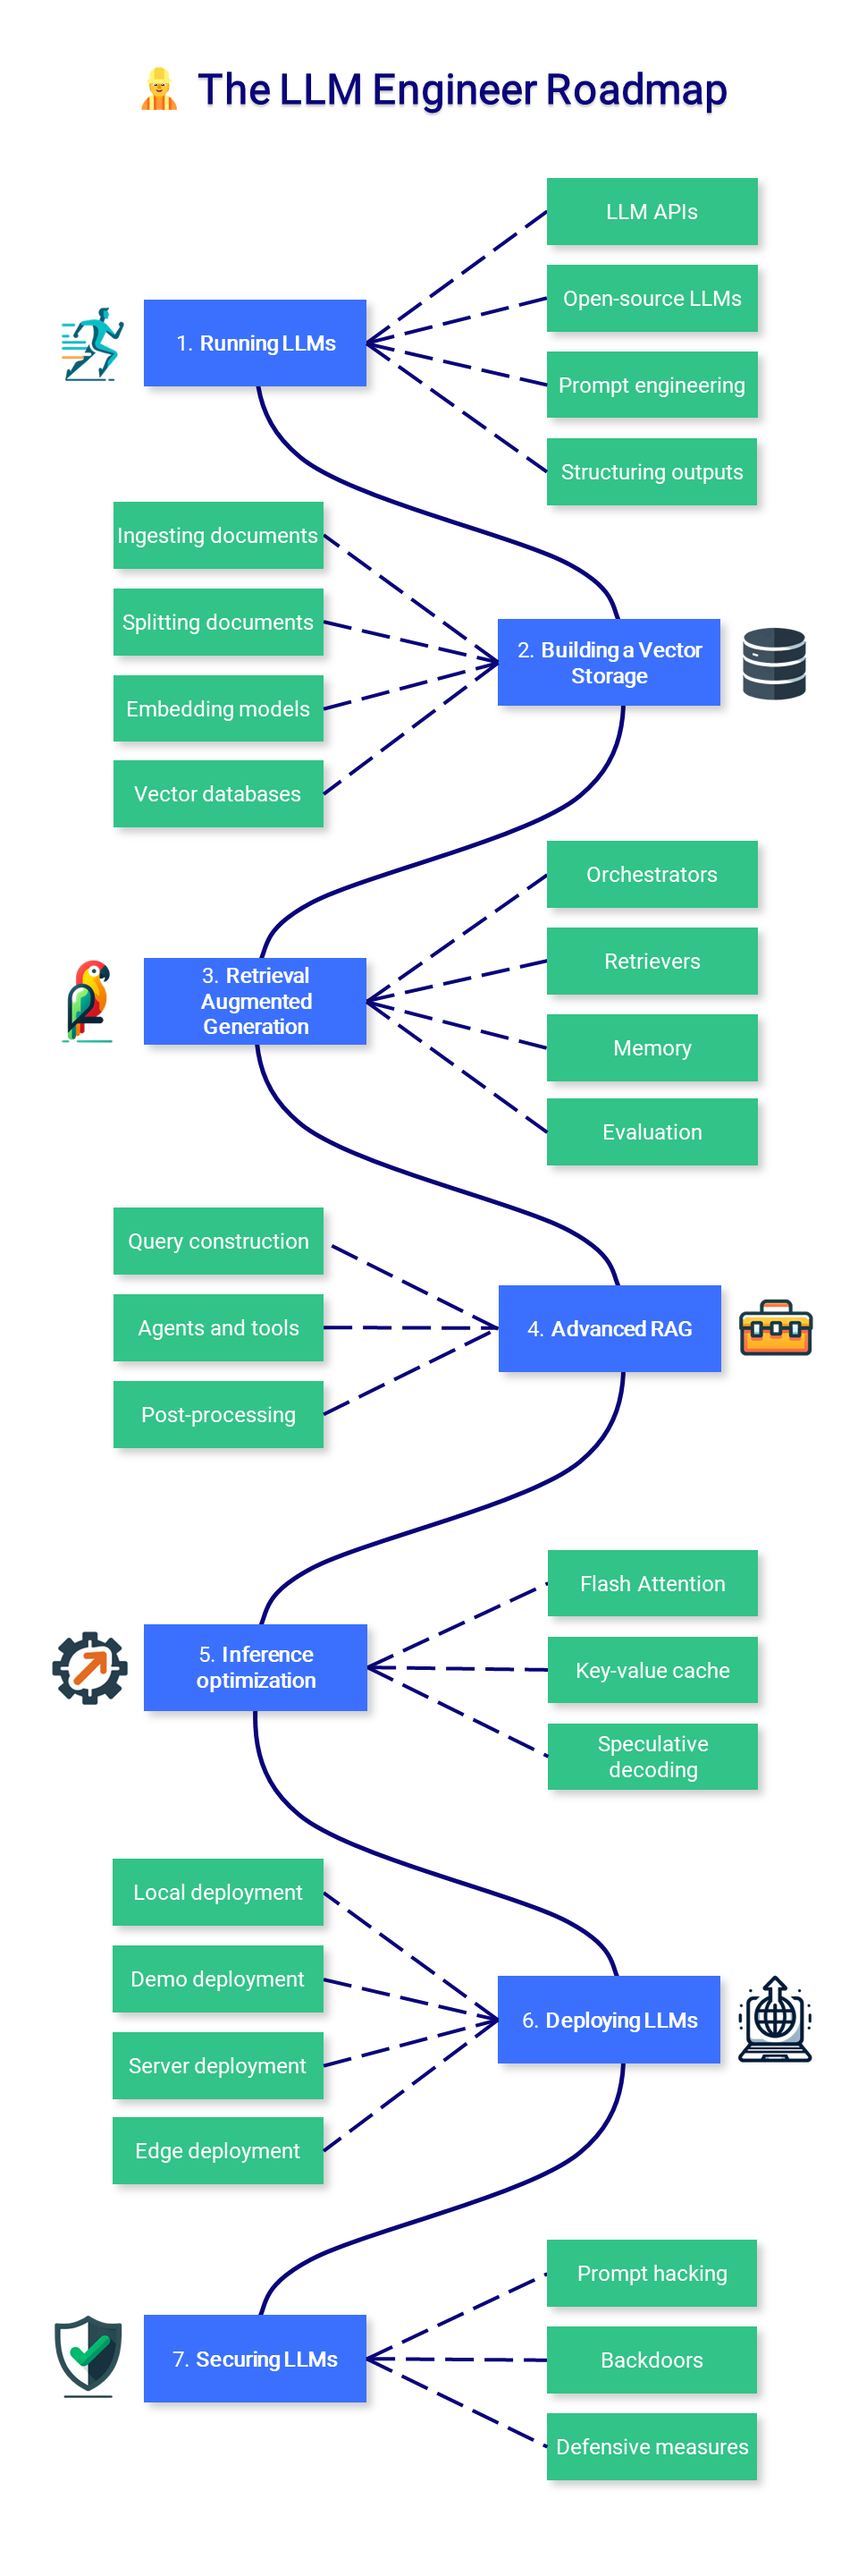
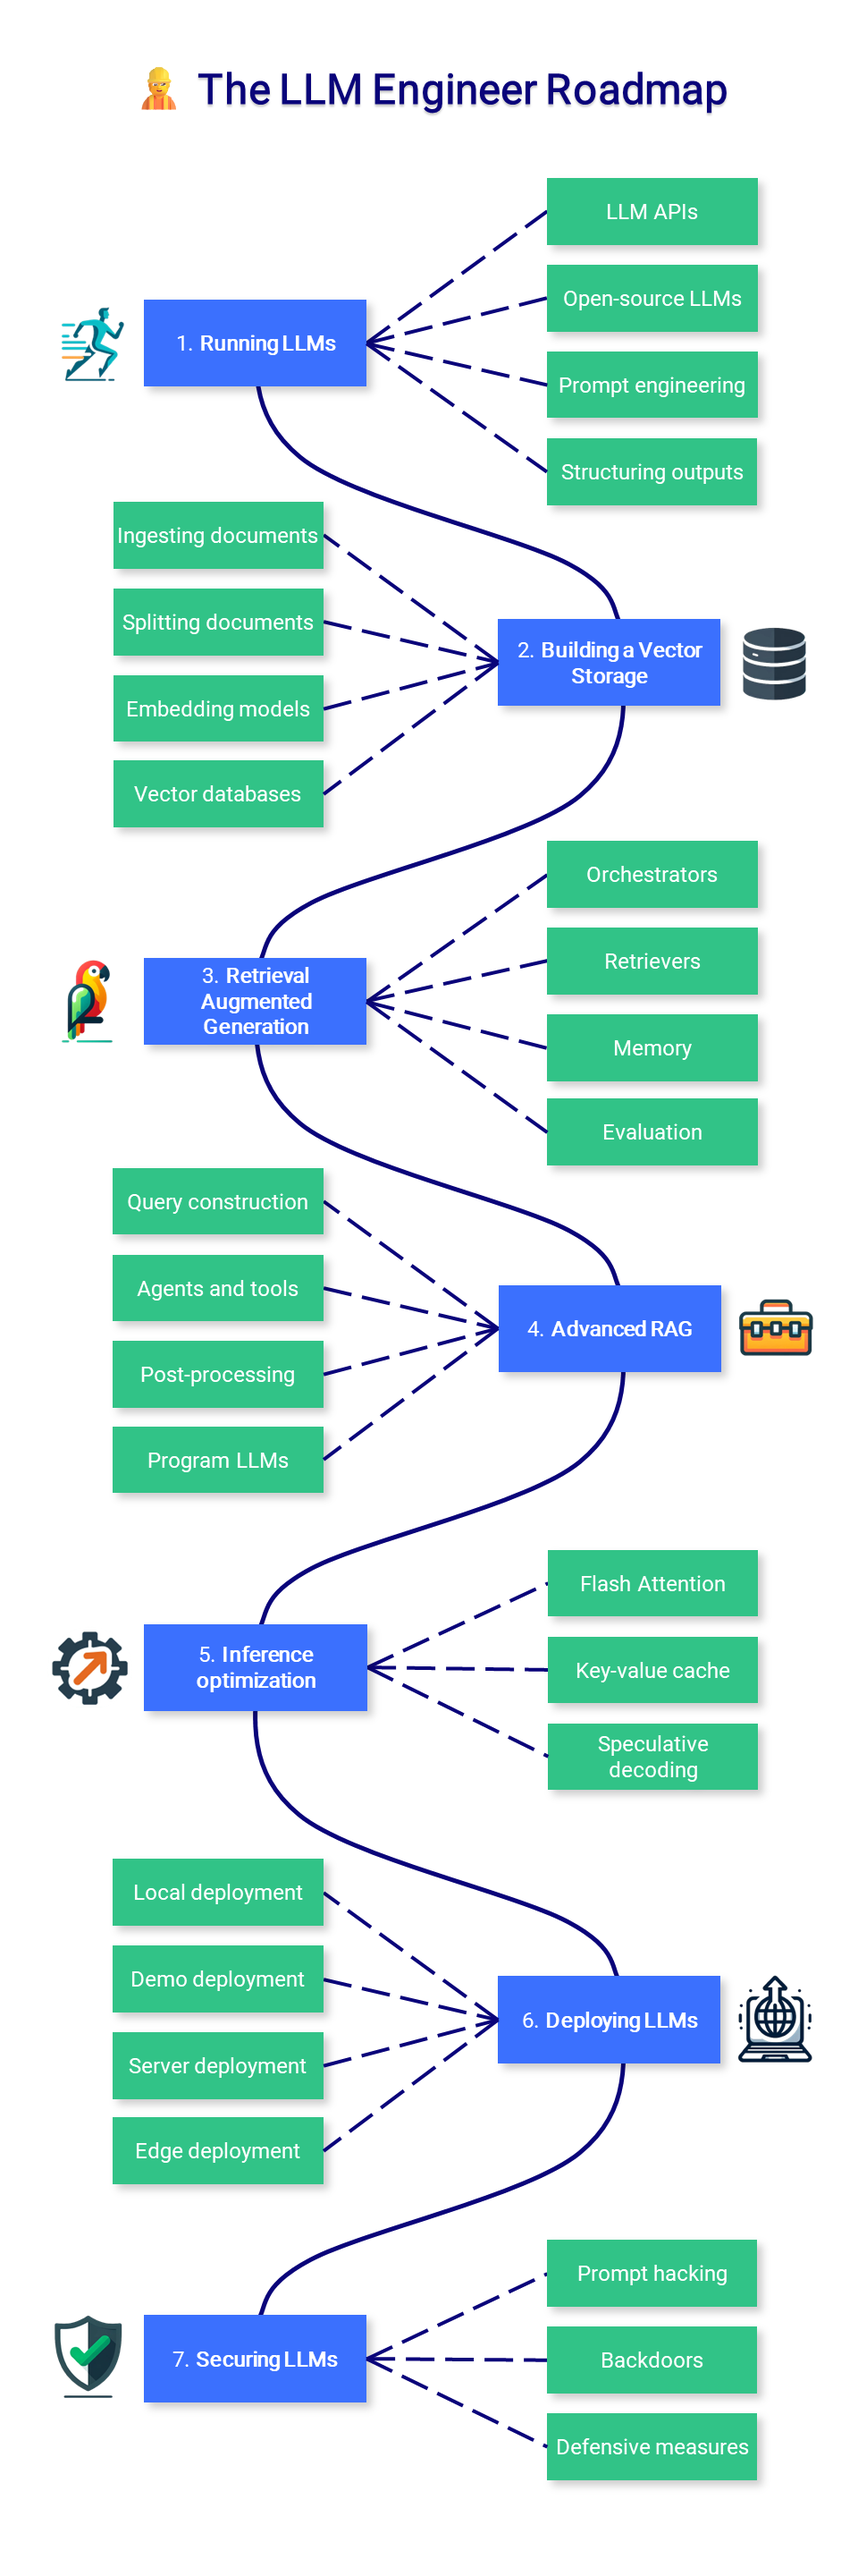
course update

Changed region(s): [[0.125, 0.4375, 0.5625, 0.5938], [0.1562, 0.0312, 0.2188, 0.0625]]

diff --git a/README.md b/README.md
@@ -4,8 +4,7 @@
     🐦 <a href="https://twitter.com/maximelabonne">Follow me on X</a> • 
     🤗 <a href="https://huggingface.co/mlabonne">Hugging Face</a> • 
     💻 <a href="https://mlabonne.github.io/blog">Blog</a> • 
-    📙 <a href="https://github.com/PacktPublishing/Hands-On-Graph-Neural-Networks-Using-Python">Hands-on GNN</a> • 
-    🗣 <a href="https://chat.openai.com/g/g-yviLuLqvI-llm-course">Interactive GPT</a>
+    📙 <a href="https://github.com/PacktPublishing/Hands-On-Graph-Neural-Networks-Using-Python">Hands-on GNN</a>
   </p>
 </div>
 <br/>
@@ -16,6 +15,11 @@ The LLM course is divided into three parts:
 2. 🧑🔬 **The LLM Scientist** focuses on building the best possible LLMs using the latest techniques.
 3. 👷 **The LLM Engineer** focuses on creating LLM-based applications and deploying them.
 
+For an interactive version of this course, I created two **LLM assistants** that will answer questions and test your knowledge in a personalized way:
+
+* 🤗 [**HuggingChat Assistant**](https://hf.co/chat/assistant/66029d2e5f4a884f7aabc9d1): Free version using Mixtral-8x7B.
+* 🤖 [**ChatGPT Assistant**](https://chat.openai.com/g/g-yviLuLqvI-llm-course): Requires a premium account.
+
 ## 📝 Notebooks
 
 A list of notebooks and articles related to large language models.
@@ -25,10 +29,11 @@ A list of notebooks and articles related to large language models.
 | Notebook | Description | Notebook |
 |----------|-------------|----------|
 | 🧐 [LLM AutoEval](https://github.com/mlabonne/llm-autoeval) | Automatically evaluate your LLMs using RunPod | <a href="https://colab.research.google.com/drive/1Igs3WZuXAIv9X0vwqiE90QlEPys8e8Oa?usp=sharing"><img src="img/colab.svg" alt="Open In Colab"></a> |
-| 🥱 LazyMergekit | Easily merge models using mergekit in one click. | <a href="https://colab.research.google.com/drive/1obulZ1ROXHjYLn6PPZJwRR6GzgQogxxb?usp=sharing"><img src="img/colab.svg" alt="Open In Colab"></a> |
-| 🦎 LazyAxolotl | Fine-tune models in the cloud in one click. | <a href="https://colab.research.google.com/drive/1TsDKNo2riwVmU55gjuBgB1AXVtRRfRHW?usp=sharing"><img src="img/colab.svg" alt="Open In Colab"></a> |
-| ⚡ AutoGGUF | Quantize LLMs in GGUF format in one click. | <a href="https://colab.research.google.com/drive/1P646NEg33BZy4BfLDNpTz0V0lwIU3CHu?usp=sharing"><img src="img/colab.svg" alt="Open In Colab"></a> |
+| 🥱 LazyMergekit | Easily merge models using MergeKit in one click. | <a href="https://colab.research.google.com/drive/1obulZ1ROXHjYLn6PPZJwRR6GzgQogxxb?usp=sharing"><img src="img/colab.svg" alt="Open In Colab"></a> |
+| 🦎 LazyAxolotl | Fine-tune models in the cloud using Axolotl in one click. | <a href="https://colab.research.google.com/drive/1TsDKNo2riwVmU55gjuBgB1AXVtRRfRHW?usp=sharing"><img src="img/colab.svg" alt="Open In Colab"></a> |
+| ⚡ AutoQuant | Quantize LLMs in GGUF, GPTQ, EXL2, AWQ, and HQQ formats in one click. | <a href="https://colab.research.google.com/drive/1b6nqC7UZVt8bx4MksX7s656GXPM-eWw4?usp=sharing"><img src="img/colab.svg" alt="Open In Colab"></a> |
 | 🌳 Model Family Tree | Visualize the family tree of merged models. | <a href="https://colab.research.google.com/drive/1s2eQlolcI1VGgDhqWIANfkfKvcKrMyNr?usp=sharing"><img src="img/colab.svg" alt="Open In Colab"></a> |
+| 🚀 ZeroSpace | Automatically create a Gradio chat interface using a free ZeroGPU. | <a href="https://colab.research.google.com/drive/1LcVUW5wsJTO2NGmozjji5CkC--646LgC"><img src="img/colab.svg" alt="Open In Colab"></a> |
 
 ### Fine-tuning
 
@@ -52,13 +57,16 @@ A list of notebooks and articles related to large language models.
 | Notebook | Description | Article | Notebook |
 |---------------------------------------|-------------------------------------------------------------------------|---------------------------------------------------------------------------------------------|------------------------------------------------------------------------------------------------------------------------------------------------------|
 | Decoding Strategies in Large Language Models | A guide to text generation from beam search to nucleus sampling | [Article](https://mlabonne.github.io/blog/posts/2022-06-07-Decoding_strategies.html) | <a href="https://colab.research.google.com/drive/19CJlOS5lI29g-B3dziNn93Enez1yiHk2?usp=sharing"><img src="img/colab.svg" alt="Open In Colab"></a> |
-| Visualizing GPT-2's Loss Landscape | 3D plot of the loss landscape based on weight perturbations. | [Tweet](https://twitter.com/maximelabonne/status/1667618081844219904) | <a href="https://colab.research.google.com/drive/1Fu1jikJzFxnSPzR_V2JJyDVWWJNXssaL?usp=sharing"><img src="img/colab.svg" alt="Open In Colab"></a> |
 | Improve ChatGPT with Knowledge Graphs | Augment ChatGPT's answers with knowledge graphs. | [Article](https://mlabonne.github.io/blog/posts/Article_Improve_ChatGPT_with_Knowledge_Graphs.html) | <a href="https://colab.research.google.com/drive/1mwhOSw9Y9bgEaIFKT4CLi0n18pXRM4cj?usp=sharing"><img src="img/colab.svg" alt="Open In Colab"></a> |
-| Merge LLMs with mergekit | Create your own models easily, no GPU required! | [Article](https://towardsdatascience.com/merge-large-language-models-with-mergekit-2118fb392b54) | <a href="https://colab.research.google.com/drive/1_JS7JKJAQozD48-LhYdegcuuZ2ddgXfr?usp=sharing"><img src="img/colab.svg" alt="Open In Colab"></a> |
-
+| Merge LLMs with MergeKit | Create your own models easily, no GPU required! | [Article](https://mlabonne.github.io/blog/posts/2024-01-08_Merge_LLMs_with_mergekit%20copy.html) | <a href="https://colab.research.google.com/drive/1_JS7JKJAQozD48-LhYdegcuuZ2ddgXfr?usp=sharing"><img src="img/colab.svg" alt="Open In Colab"></a> |
+| Create MoEs with MergeKit | Combine multiple experts into a single frankenMoE | [Article](https://towardsdatascience.com/merge-large-language-models-with-mergekit-2118fb392b54) | <a href="https://colab.research.google.com/drive/1obulZ1ROXHjYLn6PPZJwRR6GzgQogxxb?usp=sharing"><img src="img/colab.svg" alt="Open In Colab"></a> |
 
 ## 🧩 LLM Fundamentals
 
+This section introduces essential knowledge about mathematics, Python, and neural networks. You might not want to start here, but refer to it as needed.
+
+<details>
+<summary>Toggle section</summary>
 ![](img/roadmap_fundamentals.png)
 
 ### 1. Mathematics for Machine Learning
@@ -134,6 +142,7 @@ NLP is a fascinating branch of artificial intelligence that bridges the gap betw
 - [Jay Alammar - The Illustration Word2Vec](https://jalammar.github.io/illustrated-word2vec/): A good reference to understand the famous Word2Vec architecture.
 - [Jake Tae - PyTorch RNN from Scratch](https://jaketae.github.io/study/pytorch-rnn/): Practical and simple implementation of RNN, LSTM, and GRU models in PyTorch.
 - [colah's blog - Understanding LSTM Networks](https://colah.github.io/posts/2015-08-Understanding-LSTMs/): A more theoretical article about the LSTM network.
+</details>
 
 ## 🧑🔬 The LLM Scientist
 
@@ -151,9 +160,10 @@ While an in-depth knowledge about the Transformer architecture is not required, 
 * **Text generation**: Learn about the different ways the model can generate output sequences. Common strategies include greedy decoding, beam search, top-k sampling, and nucleus sampling.
 
 📚 **References**:
-- [The Illustrated Transformer](https://jalammar.github.io/illustrated-transformer/) by Jay Alammar: A visual and intuitive explanation of the Transformer model.
-- [The Illustrated GPT-2](https://jalammar.github.io/illustrated-gpt2/) by Jay Alammar: Even more important than the previous article, it is focused on the GPT architecture, which is very similar to Llama's.
-- [LLM Visualization](https://bbycroft.net/llm) by Brendan Bycroft: Incredible 3D visualization of what happens inside of an LLM.
+* [The Illustrated Transformer](https://jalammar.github.io/illustrated-transformer/) by Jay Alammar: A visual and intuitive explanation of the Transformer model.
+* [The Illustrated GPT-2](https://jalammar.github.io/illustrated-gpt2/) by Jay Alammar: Even more important than the previous article, it is focused on the GPT architecture, which is very similar to Llama's.
+* [Visual intro to Transformers](https://www.youtube.com/watch?v=wjZofJX0v4M&t=187s) by 3Blue1Brown: Simple easy to understand visual intro to Transformers
+* [LLM Visualization](https://bbycroft.net/llm) by Brendan Bycroft: Incredible 3D visualization of what happens inside of an LLM.
 * [nanoGPT](https://www.youtube.com/watch?v=kCc8FmEb1nY) by Andrej Karpathy: A 2h-long YouTube video to reimplement GPT from scratch (for programmers).
 * [Attention? Attention!](https://lilianweng.github.io/posts/2018-06-24-attention/) by Lilian Weng: Introduce the need for attention in a more formal way.
 * [Decoding Strategies in LLMs](https://mlabonne.github.io/blog/posts/2023-06-07-Decoding_strategies.html): Provide code and a visual introduction to the different decoding strategies to generate text.
@@ -237,7 +247,7 @@ Evaluating LLMs is an undervalued part of the pipeline, which is time-consuming 
 * **Traditional metrics**: Metrics like perplexity and BLEU score are not as popular as they were because they're flawed in most contexts. It is still important to understand them and when they can be applied.
 * **General benchmarks**: Based on the [Language Model Evaluation Harness](https://github.com/EleutherAI/lm-evaluation-harness), the [Open LLM Leaderboard](https://huggingface.co/spaces/HuggingFaceH4/open_llm_leaderboard) is the main benchmark for general-purpose LLMs (like ChatGPT). There are other popular benchmarks like [BigBench](https://github.com/google/BIG-bench), [MT-Bench](https://arxiv.org/abs/2306.05685), etc.
 * **Task-specific benchmarks**: Tasks like summarization, translation, and question answering have dedicated benchmarks, metrics, and even subdomains (medical, financial, etc.), such as [PubMedQA](https://pubmedqa.github.io/) for biomedical question answering.
-* **Human evaluation**: The most reliable evaluation is the acceptance rate by users or comparisons made by humans. If you want to know if a model performs well, the simplest but surest way is to use it yourself.
+* **Human evaluation**: The most reliable evaluation is the acceptance rate by users or comparisons made by humans. Logging user feedback in addition to the chat traces (e.g., using [LangSmith](https://docs.smith.langchain.com/evaluation/capturing-feedback)) helps to identify potential areas for improvement.
 
 📚 **References**:
 * [Perplexity of fixed-length models](https://huggingface.co/docs/transformers/perplexity) by Hugging Face: Overview of perplexity with code to implement it with the transformers library.
@@ -258,7 +268,7 @@ Quantization is the process of converting the weights (and activations) of a mod
 📚 **References**:
 * [Introduction to quantization](https://mlabonne.github.io/blog/posts/Introduction_to_Weight_Quantization.html): Overview of quantization, absmax and zero-point quantization, and LLM.int8() with code.
 * [Quantize Llama models with llama.cpp](https://mlabonne.github.io/blog/posts/Quantize_Llama_2_models_using_ggml.html): Tutorial on how to quantize a Llama 2 model using llama.cpp and the GGUF format.
-* [4-bit LLM Quantization with GPTQ](https://mlabonne.github.io/blog/posts/Introduction_to_Weight_Quantization.html): Tutorial on how to quantize an LLM using the GPTQ algorithm with AutoGPTQ.
+* [4-bit LLM Quantization with GPTQ](https://mlabonne.github.io/blog/posts/4_bit_Quantization_with_GPTQ.html): Tutorial on how to quantize an LLM using the GPTQ algorithm with AutoGPTQ.
 * [ExLlamaV2: The Fastest Library to Run LLMs](https://mlabonne.github.io/blog/posts/ExLlamaV2_The_Fastest_Library_to_Run%C2%A0LLMs.html): Guide on how to quantize a Mistral model using the EXL2 format and run it with the ExLlamaV2 library.
 * [Understanding Activation-Aware Weight Quantization](https://medium.com/friendliai/understanding-activation-aware-weight-quantization-awq-boosting-inference-serving-efficiency-in-10bb0faf63a8) by FriendliAI: Overview of the AWQ technique and its benefits.
 
@@ -266,7 +276,7 @@ Quantization is the process of converting the weights (and activations) of a mod
 ### 8. New Trends
 
 * **Positional embeddings**: Learn how LLMs encode positions, especially relative positional encoding schemes like [RoPE](https://arxiv.org/abs/2104.09864). Implement [YaRN](https://arxiv.org/abs/2309.00071) (multiplies the attention matrix by a temperature factor) or [ALiBi](https://arxiv.org/abs/2108.12409) (attention penalty based on token distance) to extend the context length.
-* **Model merging**: Merging trained models has become a popular way of creating peformant models without any fine-tuning. The popular [mergekit](https://github.com/cg123/mergekit) library implements the most popular merging methods, like SLERP, [DARE](https://arxiv.org/abs/2311.03099), and [TIES](https://arxiv.org/abs/2311.03099).
+* **Model merging**: Merging trained models has become a popular way of creating performant models without any fine-tuning. The popular [mergekit](https://github.com/cg123/mergekit) library implements the most popular merging methods, like SLERP, [DARE](https://arxiv.org/abs/2311.03099), and [TIES](https://arxiv.org/abs/2311.03099).
 * **Mixture of Experts**: [Mixtral](https://arxiv.org/abs/2401.04088) re-popularized the MoE architecture thanks to its excellent performance. In parallel, a type of frankenMoE emerged in the OSS community by merging models like [Phixtral](https://huggingface.co/mlabonne/phixtral-2x2_8), which is a cheaper and performant option.
 * **Multimodal models**: These models (like [CLIP](https://openai.com/research/clip), [Stable Diffusion](https://stability.ai/stable-image), or [LLaVA](https://llava-vl.github.io/)) process multiple types of inputs (text, images, audio, etc.) with a unified embedding space, which unlocks powerful applications like text-to-image.
 
@@ -340,6 +350,7 @@ Real-life applications can require complex pipelines, including SQL or graph dat
 * **Query construction**: Structured data stored in traditional databases requires a specific query language like SQL, Cypher, metadata, etc. We can directly translate the user instruction into a query to access the data with query construction.
 * **Agents and tools**: Agents augment LLMs by automatically selecting the most relevant tools to provide an answer. These tools can be as simple as using Google or Wikipedia, or more complex like a Python interpreter or Jira. 
 * **Post-processing**: Final step that processes the inputs that are fed to the LLM. It enhances the relevance and diversity of documents retrieved with re-ranking, [RAG-fusion](https://github.com/Raudaschl/rag-fusion), and classification.
+* **Program LLMs**: Frameworks like [DSPy](https://github.com/stanfordnlp/dspy) allow you to optimize prompts and weights based on automated evaluations in a programmatic way.
 
 📚 **References**:
 * [LangChain - Query Construction](https://blog.langchain.dev/query-construction/): Blog post about different types of query construction.
@@ -347,6 +358,7 @@ Real-life applications can require complex pipelines, including SQL or graph dat
 * [Pinecone - LLM agents](https://www.pinecone.io/learn/series/langchain/langchain-agents/): Introduction to agents and tools with different types.
 * [LLM Powered Autonomous Agents](https://lilianweng.github.io/posts/2023-06-23-agent/) by Lilian Weng: More theoretical article about LLM agents.
 * [LangChain - OpenAI's RAG](https://blog.langchain.dev/applying-openai-rag/): Overview of the RAG strategies employed by OpenAI, including post-processing.
+* [DSPy in 8 Steps](https://dspy-docs.vercel.app/docs/building-blocks/solving_your_task): General-purpose guide to DSPy introducing modules, signatures, and optimizers.
 
 ---
 ### 5. Inference optimization
@@ -403,6 +415,8 @@ Special thanks to:
 * Thomas Thelen for motivating me to create a roadmap
 * André Frade for his input and review of the first draft
 * Dino Dunn for providing resources about LLM security
+* Magdalena Kuhn for improving the "human evaluation" part
+* Odoverdose for suggesting 3Blue1Brown's video about Transformers
 
 *Disclaimer: I am not affiliated with any sources listed here.*
 
